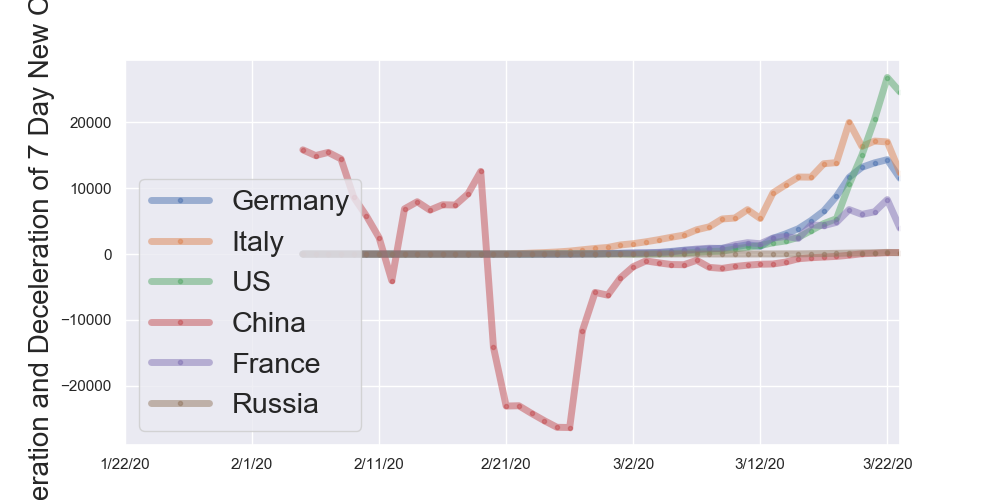
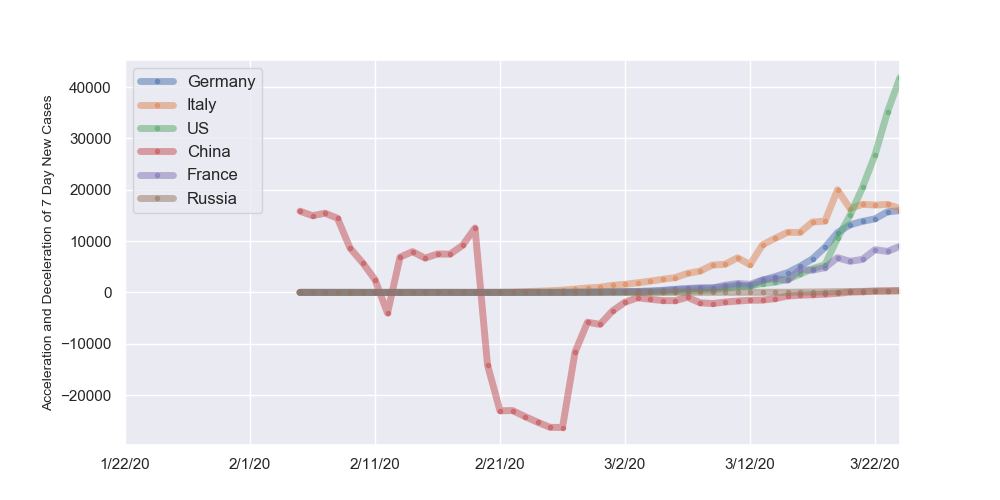
Daily UPD

diff --git a/COVID.py b/COVID.py
@@ -112,9 +112,9 @@ plt.savefig('/Users/mminakova/Documents/COVID/covid_tracker/covid/Acceleration &
 
 cols_plot = ['Germany', 'Italy', 'US', 'China', 'France', 'Russia']
 axes = diff7_2[cols_plot].plot(marker='.', alpha=0.5, linestyle='-', figsize=(10, 5), linewidth = 5)
-for ax in axes:
-    ax.set_ylabel('Acceleration and Deceleration of 7 Day New Cases', fontsize = 10)
-    ax.legend(fontsize = 'medium')
+
+axes.set_ylabel('Acceleration and Deceleration of 7 Day New Cases', fontsize = 10)
+axes.legend(fontsize = 'medium')
 plt.savefig('/Users/mminakova/Documents/COVID/covid_tracker/covid/Acceleration and Deceleration of 7 Day New Cases all.png')
 
 
